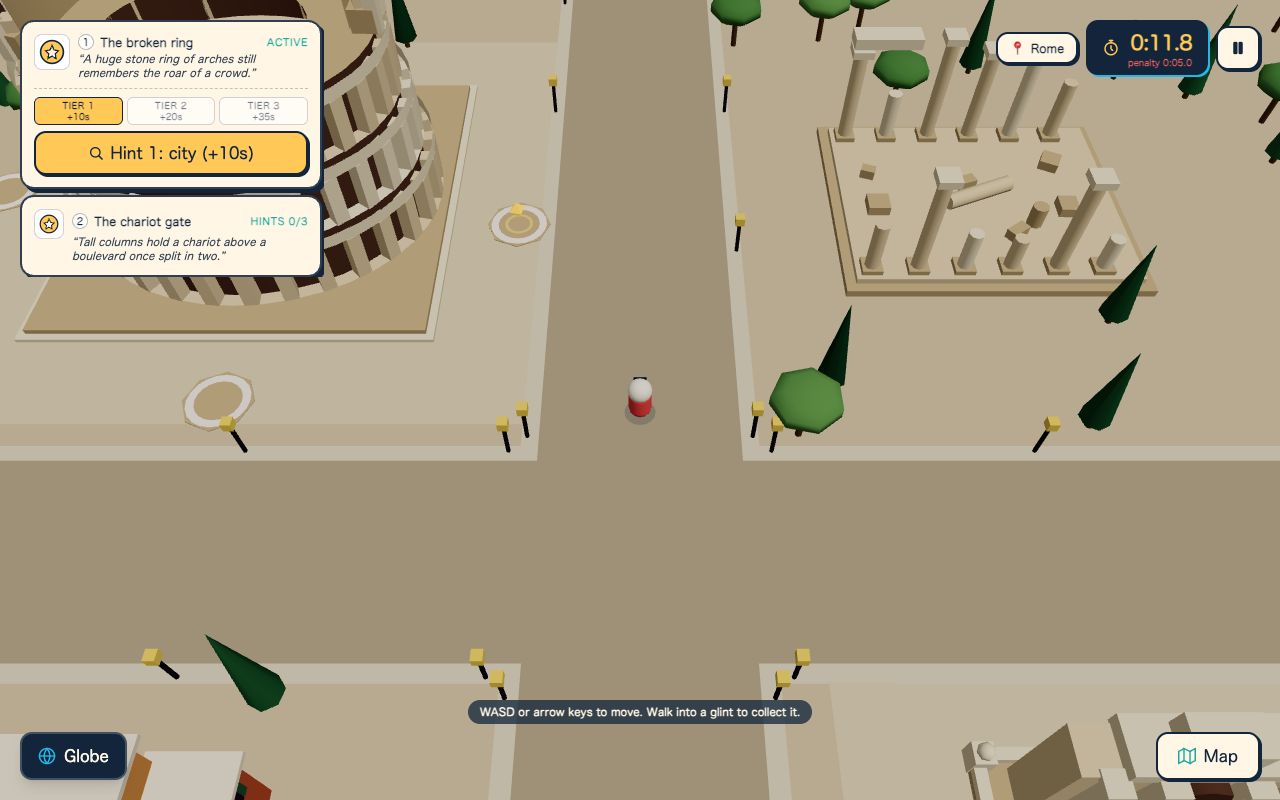
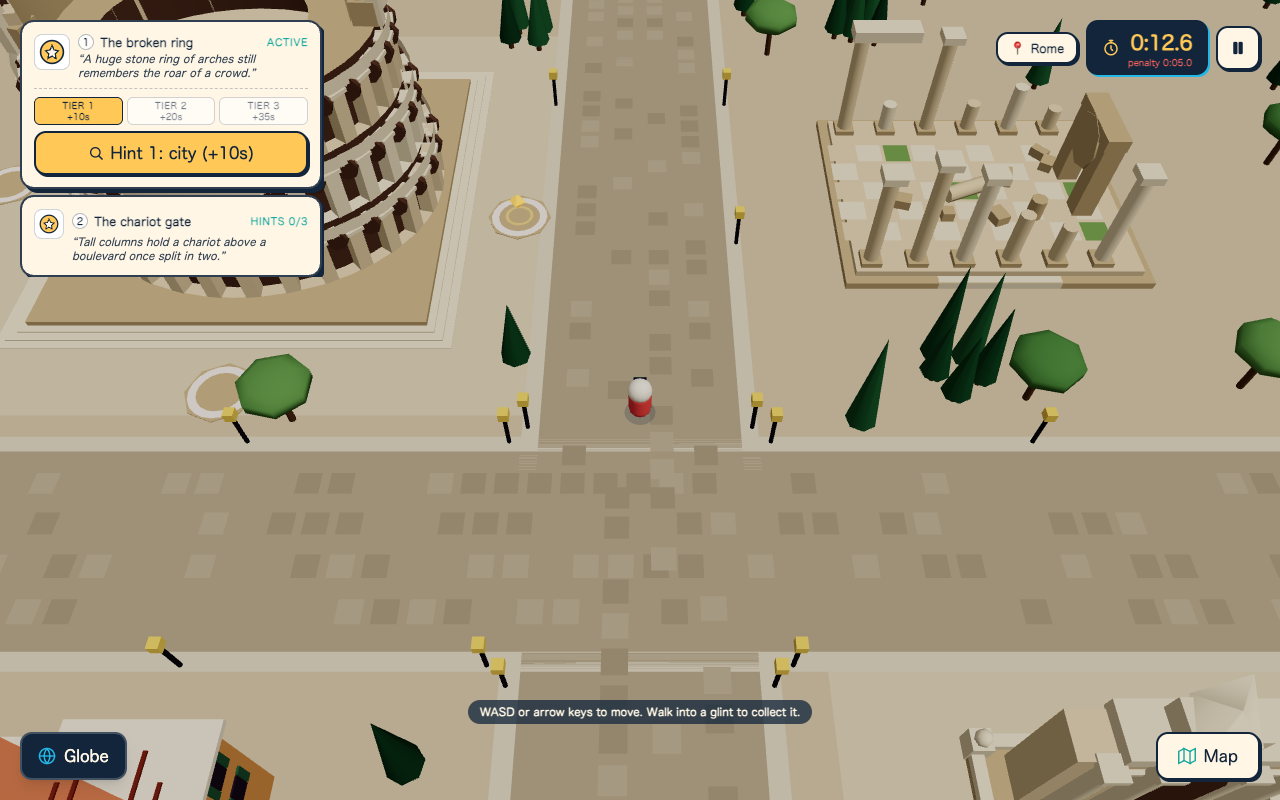
A8: Rome ground-level pass — arch heads/keystones, Trevi-style sculpture and water, forum paving + arch fragment, roof tile courses, piazza cafe tables, cypress groves, cobble slabs

diff --git a/src/cities/rome/RomeScene.tsx b/src/cities/rome/RomeScene.tsx
@@ -68,7 +68,12 @@ const ARENA_SAND = '#e6c690';
 const SOCKET_PAD_TONE = '#fff5e9';
 const SOCKET_DISC_TONE = '#cdb489';
 const PLASTER_TONES = ['#e8a35c', '#d97f4a', '#f0bd7c', '#c9683f', '#f2d19b', '#e08c5a'] as const;
-const ROOF_TONES = ['#b8512f', '#c25f38', '#a8492a', '#cf6a3e'] as const;
+const ROOF_TONES = ['#b8512f', '#c25f38', '#a8492a', '#cf6a3e', '#d9825a', '#9c4a2c'] as const;
+const ROOF_RIDGE = '#8a3a22';
+const COBBLE_DARK = '#ab9d83';
+const COBBLE_LIGHT = '#bfb095';
+const GRASS_TONE = '#7fa35a';
+const FOAM_TONE = '#dff7ff';
 const SHUTTER_TONE = '#3f6b4f';
 const WINDOW_TONE = '#3a2a3f';
 const TRIM_TONE = '#f9ecd6';
@@ -80,8 +85,6 @@ const LAMP_GLOW_TONE = '#ffd963';
 const UMBRELLA_TONES = ['#f43fab', '#ffd963', '#22c4ea'] as const;
 const TABLE_TONE = '#fff5e9';
 const WATER_TONE = '#22c4ea';
-const WATER_DEEP = '#1a9fc4';
-const BRONZE_TONE = '#5b6b4a';
 const AWNING_GREEN = '#3f8f5a';
 const AWNING_WHITE = '#fff5e9';
 
@@ -258,6 +261,25 @@ function buildHouses(houses: readonly House[], rng: Rng, quality: Quality, batch
     });
     batches.boxes.push(boxItem(eaves, height - 0.3, 0.35, TRIM_TONE));
     if (quality === 'low') continue;
+    // Pantile detail: a dark ridge cap and two tile courses running along the long axis of the roof.
+    const alongX = width(rect) >= depth(rect);
+    batches.boxes.push({ x: centerX(rect), y: height + 1.75, z: centerZ(rect), sx: alongX ? width(rect) * 0.35 : 0.5, sy: 0.25, sz: alongX ? 0.5 : depth(rect) * 0.35, color: ROOF_RIDGE });
+    for (const t of [0.35, 0.6]) {
+      const half = alongX ? depth(eaves) / 2 : width(eaves) / 2;
+      const y = height + 0.9 + (1 - t) * 0.9;
+      for (const side of [-1, 1] as const) {
+        const off = side * half * t;
+        batches.boxes.push({
+          x: alongX ? centerX(eaves) : centerX(eaves) + off,
+          y,
+          z: alongX ? centerZ(eaves) + off : centerZ(eaves),
+          sx: alongX ? width(eaves) * (1 - t * 0.6) : 0.18,
+          sy: 0.12,
+          sz: alongX ? 0.18 : depth(eaves) * (1 - t * 0.6),
+          color: ROOF_RIDGE,
+        });
+      }
+    }
 
     // Ground-floor arches on the +Z face (the chase camera looks toward -Z, so +Z faces are seen).
     const frontZ = rect.maxZ + 0.06;
@@ -325,16 +347,27 @@ function buildTrattoria(landmark: Landmark, quality: Quality, batches: Batches):
   if (quality === 'low') return;
 
   // Cafe tables under umbrellas on the terrace in front (walk-through decoration).
+  let index = 0;
   for (let x = footprint.minX + 2; x < footprint.maxX - 1; x += 4.2) {
-    const z = frontZ + 3.4;
-    const tone = UMBRELLA_TONES[Math.round((x - footprint.minX) / 4.2) % UMBRELLA_TONES.length]!;
-    batches.cylinders.push({ x, y: 0.45, z, sx: 0.16, sy: 0.9, sz: 0.16, color: LAMP_POST_TONE });
-    batches.cylinders.push({ x, y: 0.95, z, sx: 1.4, sy: 0.12, sz: 1.4, color: TABLE_TONE });
-    batches.cylinders.push({ x, y: 1.9, z, sx: 0.1, sy: 2.0, sz: 0.1, color: LAMP_POST_TONE });
-    batches.cones.push({ x, y: 3.2, z, sx: 3.2, sy: 0.9, sz: 3.2, color: tone });
-    for (const [dx, dz] of [[-0.9, 0.5], [0.9, 0.5]] as const) {
-      batches.boxes.push({ x: x + dx, y: 0.5, z: z + dz, sx: 0.5, sy: 0.9, sz: 0.5, color: TRUNK_TONE });
-    }
+    cafeTable(x, frontZ + 3.4, UMBRELLA_TONES[index % UMBRELLA_TONES.length]!, batches);
+    index += 1;
+  }
+  // Planters flanking the door.
+  for (const x of [footprint.minX + 0.6, footprint.maxX - 0.6]) {
+    batches.boxes.push({ x, y: 0.4, z: frontZ + 0.9, sx: 1.0, sy: 0.8, sz: 1.0, color: ROOF_TONES[0] });
+    batches.spheres.push({ x, y: 1.3, z: frontZ + 0.9, sx: 0.8, sy: 0.7, sz: 0.8, color: PINE_TONES[1] });
+  }
+}
+
+/** One cafe table with two chairs under a coloured umbrella; walk-through, so never placed inside a blocker. */
+function cafeTable(x: number, z: number, tone: string, batches: Batches): void {
+  batches.cylinders.push({ x, y: 0.45, z, sx: 0.16, sy: 0.9, sz: 0.16, color: LAMP_POST_TONE });
+  batches.cylinders.push({ x, y: 0.95, z, sx: 1.4, sy: 0.12, sz: 1.4, color: TABLE_TONE });
+  batches.cylinders.push({ x, y: 1.9, z, sx: 0.1, sy: 2.0, sz: 0.1, color: LAMP_POST_TONE });
+  batches.cones.push({ x, y: 3.2, z, sx: 3.2, sy: 0.9, sz: 3.2, color: tone });
+  batches.cones.push({ x, y: 3.7, z, sx: 0.4, sy: 0.3, sz: 0.4, color: TABLE_TONE });
+  for (const [dx, dz] of [[-0.9, 0.5], [0.9, 0.5]] as const) {
+    batches.boxes.push({ x: x + dx, y: 0.5, z: z + dz, sx: 0.5, sy: 0.9, sz: 0.5, color: TRUNK_TONE });
   }
 }
 
@@ -384,7 +417,19 @@ function buildColosseum(landmark: Landmark, quality: Quality, batches: Batches):
       const px = cx + Math.cos(angle) * (tx - 0.55);
       const pz = cz + Math.sin(angle) * (tz - 0.55);
       batches.boxes.push({ x: px, y: y0 + (TIER_HEIGHT - 1) / 2, z: pz, sx: 1.1, sy: TIER_HEIGHT - 1, sz: 1.1, ry: -angle, color: tier === 1 ? TRAVERTINE_LIGHT : TRAVERTINE });
+      if (quality === 'low') continue;
+      // Rounded arch head over each opening, a light keystone above it, and a pilaster capital.
+      const mid = angle + Math.PI / pillars;
+      const ax = cx + Math.cos(mid) * (tx - 0.5);
+      const az = cz + Math.sin(mid) * (tz - 0.5);
+      batches.cylinders.push({ x: ax, y: y0 + TIER_HEIGHT - 1.55, z: az, sx: 1.9, sy: 0.5, sz: 1.9, rx: Math.PI / 2, ry: -mid, color: ARCH_SHADOW });
+      batches.boxes.push({ x: ax, y: y0 + TIER_HEIGHT - 0.9, z: az, sx: 0.5, sy: 0.7, sz: 0.5, ry: -mid, color: TRAVERTINE_LIGHT });
+      batches.boxes.push({ x: px, y: y0 + TIER_HEIGHT - 1.15, z: pz, sx: 1.4, sy: 0.3, sz: 1.4, ry: -angle, color: TRAVERTINE_LIGHT });
     }
+  }
+  // Three shallow steps around the plinth so the base reads from ground level.
+  for (let step = 1; step <= 2; step += 1) {
+    batches.boxes.push(boxItem(grow(footprint, 0.6 + step * 0.7), 0, 0.3 - step * 0.12, TRAVERTINE_LIGHT));
   }
 
   // Broken attic: a partial fourth storey that survives only on one side.
@@ -481,18 +526,49 @@ function buildFountain(landmark: Landmark, quality: Quality, batches: Batches): 
   }
   batches.boxes.push({ x: cx, y: 4.2, z: wallZ + 1.4, sx: size * 0.2, sy: 5.6, sz: 0.8, color: ARCH_SHADOW });
   batches.cylinders.push({ x: cx, y: 7, z: wallZ + 1.4, sx: size * 0.2, sy: 0.8, sz: size * 0.2, rx: Math.PI / 2, color: ARCH_SHADOW });
-  // Central figure on a rocky base, riding out of the arch.
-  batches.boxes.push({ x: cx, y: 1.9, z: cz - 1, sx: 3.2, sy: 1.6, sz: 2.4, color: TRAVERTINE_DARK });
-  batches.cylinders.push({ x: cx, y: 3.6, z: cz - 1, sx: 1.2, sy: 1.8, sz: 1.2, color: BRONZE_TONE });
-  batches.spheres.push({ x: cx, y: 4.9, z: cz - 1, sx: 0.7, sy: 0.7, sz: 0.7, color: BRONZE_TONE });
-  batches.cylinders.push({ x: cx, y: 2.9, z: cz + 1.2, sx: 3.4, sy: 0.4, sz: 3.4, color: TRAVERTINE_LIGHT });
-  batches.cylinders.push({ x: cx, y: 3.1, z: cz + 1.2, sx: 2.6, sy: 0.16, sz: 2.6, color: WATER_DEEP });
-  if (quality === 'low') return;
-  // Little spouts of water as thin cyan columns.
-  for (const dx of [-2.6, 2.6]) {
-    batches.cylinders.push({ x: cx + dx, y: 2.0, z: cz + 1.5, sx: 0.3, sy: 1.6, sz: 0.3, color: WATER_TONE });
-    batches.spheres.push({ x: cx + dx, y: 2.9, z: cz + 1.5, sx: 0.45, sy: 0.35, sz: 0.45, color: WATER_TONE });
+  // Palazzo facade detail: pediment, windows either side of the niche.
+  batches.roofs.push({ x: cx, y: 12.0, z: wallZ, sx: size * 0.26, sy: 1.4, sz: 2.4, ry: Math.PI / 4, color: TRAVERTINE_LIGHT });
+  for (const dx of [-size * 0.2, size * 0.2]) {
+    batches.boxes.push({ x: cx + dx, y: 6.4, z: wallZ + 1.25, sx: 1.2, sy: 1.8, sz: 0.12, color: WINDOW_TONE });
+    batches.boxes.push({ x: cx + dx, y: 7.5, z: wallZ + 1.3, sx: 1.8, sy: 0.3, sz: 0.3, color: TRAVERTINE_LIGHT });
   }
+  // Trevi-style rocky scogli tumbling from the niche into the pool.
+  const rocks: readonly (readonly [number, number, number, number])[] = [
+    [0, 1.6, cz - 2.2, 4.4],
+    [-2.6, 1.1, cz - 1.0, 3.0],
+    [2.4, 1.2, cz - 1.4, 3.2],
+    [-1.2, 0.9, cz + 0.8, 2.4],
+    [1.6, 0.8, cz + 1.0, 2.2],
+    [-3.8, 0.7, cz + 0.4, 2.0],
+    [3.6, 0.7, cz + 0.2, 2.0],
+  ];
+  for (const [dx, h, z, w] of rocks) {
+    batches.boxes.push({ x: cx + dx, y: 1.1 + h / 2, z, sx: w, sy: h, sz: w * 0.8, ry: dx * 0.15, color: TRAVERTINE_DARK });
+  }
+  // Oceanus in the niche on a shell chariot, flanked by two tritons with sea horses.
+  batches.boxes.push({ x: cx, y: 3.9, z: cz - 2.4, sx: 1.6, sy: 2.6, sz: 1.0, color: TRAVERTINE_LIGHT });
+  batches.spheres.push({ x: cx, y: 5.6, z: cz - 2.4, sx: 0.6, sy: 0.65, sz: 0.6, color: TRAVERTINE_LIGHT });
+  batches.boxes.push({ x: cx, y: 4.9, z: cz - 2.4, sx: 2.6, sy: 0.5, sz: 0.8, color: TRAVERTINE_LIGHT });
+  batches.cylinders.push({ x: cx, y: 2.9, z: cz - 2.2, sx: 3.0, sy: 0.5, sz: 2.0, color: TRAVERTINE_LIGHT });
+  for (const side of [-1, 1] as const) {
+    const x = cx + side * 2.6;
+    batches.boxes.push({ x, y: 3.0, z: cz - 1.0, sx: 1.0, sy: 1.6, sz: 0.7, color: TRAVERTINE_LIGHT });
+    batches.spheres.push({ x, y: 4.0, z: cz - 1.0, sx: 0.4, sy: 0.45, sz: 0.4, color: TRAVERTINE_LIGHT });
+    batches.boxes.push({ x: x + side * 1.2, y: 2.6, z: cz + 0.2, sx: 1.6, sy: 0.9, sz: 0.9, ry: side * 0.5, color: TRAVERTINE_LIGHT });
+    batches.cylinders.push({ x: x + side * 1.9, y: 3.3, z: cz + 0.6, sx: 0.5, sy: 1.0, sz: 0.5, rx: -0.5, color: TRAVERTINE_LIGHT });
+  }
+  if (quality === 'low') return;
+  // Water: sheets sliding down the rocks, spray, and foam rings where they hit the pool.
+  for (const [dx, z, w] of [[-1.6, cz - 0.4, 2.2], [1.4, cz - 0.6, 2.0], [0, cz + 0.6, 2.8]] as const) {
+    batches.boxes.push({ x: cx + dx, y: 1.9, z, sx: w, sy: 0.12, sz: 2.4, rx: -0.9, color: WATER_TONE });
+    batches.cylinders.push({ x: cx + dx, y: 1.28, z: z + 1.6, sx: w + 0.8, sy: 0.06, sz: (w + 0.8) * 0.6, color: FOAM_TONE });
+  }
+  for (const side of [-1, 1] as const) {
+    const x = cx + side * 4.5;
+    batches.cylinders.push({ x, y: 2.0, z: cz + 0.6, sx: 0.3, sy: 1.6, sz: 0.3, color: WATER_TONE });
+    batches.spheres.push({ x, y: 2.9, z: cz + 0.6, sx: 0.45, sy: 0.35, sz: 0.45, color: FOAM_TONE });
+  }
+  batches.spheres.push({ x: cx, y: 3.4, z: cz - 2.0, sx: 0.9, sy: 0.5, sz: 0.9, color: FOAM_TONE });
 }
 
 function buildForumRuin(blocker: Blocker, rng: Rng, quality: Quality, batches: Batches): void {
@@ -515,6 +591,26 @@ function buildForumRuin(blocker: Blocker, rng: Rng, quality: Quality, batches: B
   batches.cylinders.push({ x: centerX(blocker), y: 1.7, z: centerZ(blocker), sx: 1.3, sy: 6, sz: 1.3, rz: Math.PI / 2, ry: 0.4, color: TRAVERTINE });
   batches.cylinders.push({ x: centerX(blocker) + 4, y: 1.7, z: centerZ(blocker) + 3, sx: 1.3, sy: 2.4, sz: 1.3, color: TRAVERTINE_DARK });
   if (quality === 'low') return;
+  // Checkered paving slabs on the podium, a grassy patch where slabs are missing, and steps on the +Z side.
+  for (let x = blocker.minX + 1.4; x < blocker.maxX - 1.2; x += 2.4) {
+    for (let z = blocker.minZ + 5.2; z < blocker.maxZ - 5.0; z += 2.4) {
+      const parity = (Math.round((x - blocker.minX) / 2.4) + Math.round((z - blocker.minZ) / 2.4)) % 2;
+      if (rng.next() < 0.12) {
+        batches.flats.push({ x, y: 1.115, z, sx: 2.1, sy: 2.1, sz: 1, rx: FLAT, color: GRASS_TONE });
+        continue;
+      }
+      batches.flats.push({ x, y: 1.115, z, sx: 2.1, sy: 2.1, sz: 1, rx: FLAT, color: parity === 0 ? TRAVERTINE_LIGHT : TRAVERTINE });
+    }
+  }
+  batches.boxes.push({ x: centerX(blocker), y: 0.3, z: blocker.maxZ - 0.4, sx: width(blocker) * 0.4, sy: 0.6, sz: 0.8, color: TRAVERTINE_LIGHT });
+  // A surviving arch fragment at the east end.
+  const archX = blocker.maxX - 4;
+  const archZ = centerZ(blocker);
+  for (const dz of [-2.2, 2.2]) {
+    batches.boxes.push({ x: archX, y: 1.1 + 3.2, z: archZ + dz, sx: 1.6, sy: 6.4, sz: 1.6, color: TRAVERTINE_DARK });
+  }
+  batches.boxes.push({ x: archX, y: 1.1 + 6.9, z: archZ, sx: 1.8, sy: 1.0, sz: 6.0, color: TRAVERTINE_DARK });
+  batches.cylinders.push({ x: archX, y: 1.1 + 5.2, z: archZ, sx: 4.4, sy: 1.9, sz: 4.4, rz: Math.PI / 2, color: TRAVERTINE_DARK });
   for (let i = 0; i < 6; i += 1) {
     batches.boxes.push({
       x: blocker.minX + 3 + rng.next() * (width(blocker) - 6),
@@ -574,6 +670,21 @@ function isClearForProps(definition: CityDefinition, x: number, z: number, keepO
   return Math.hypot(definition.spawn[0] - x, definition.spawn[2] - z) >= SOCKET_CLEAR_RADIUS;
 }
 
+/** Like isClearForProps but allows piazza edges: only the blocker rectangles, roads, sockets and spawn are excluded. */
+function isPropSafe(definition: CityDefinition, x: number, z: number): boolean {
+  if (!contains(grow(definition.bounds, -2), x, z)) return false;
+  for (const blocker of definition.blockers) {
+    if (contains(grow(blocker, 2.0), x, z)) return false;
+  }
+  for (const road of definition.roads) {
+    if (contains(grow(road, 1.0), x, z)) return false;
+  }
+  for (const socket of definition.sockets) {
+    if (Math.hypot(socket.position[0] - x, socket.position[2] - z) < SOCKET_CLEAR_RADIUS) return false;
+  }
+  return Math.hypot(definition.spawn[0] - x, definition.spawn[2] - z) >= SOCKET_CLEAR_RADIUS;
+}
+
 function buildProps(definition: CityDefinition, rng: Rng, quality: Quality, batches: Batches): void {
   const placed: [number, number][] = [];
   const target = quality === 'low' ? 20 : 56;
@@ -584,7 +695,19 @@ function buildProps(definition: CityDefinition, rng: Rng, quality: Quality, batc
     if (!isClearForProps(definition, x, z, true)) continue;
     if (placed.some(([px, pz]) => Math.hypot(px - x, pz - z) < 4.5)) continue;
     placed.push([x, z]);
-    if (rng.next() < 0.55) {
+    const roll = rng.next();
+    if (roll < 0.3 && quality !== 'low') {
+      // Cypress grove: a tight cluster of three to five spires of varying height.
+      const count = 3 + rng.int(3);
+      for (let i = 0; i < count; i += 1) {
+        const angle = (i / count) * Math.PI * 2 + rng.next();
+        const radius = 1.2 + rng.next() * 1.2;
+        const gx = x + Math.cos(angle) * radius;
+        const gz = z + Math.sin(angle) * radius;
+        if (!isClearForProps(definition, gx, gz, true)) continue;
+        cypress(gx, gz, 5 + rng.next() * 4, rng.pick(CYPRESS_TONES), batches);
+      }
+    } else if (roll < 0.6) {
       cypress(x, z, 6 + rng.next() * 3, rng.pick(CYPRESS_TONES), batches);
     } else {
       // Stone pine: tall bare trunk with a flat umbrella crown.
@@ -594,6 +717,28 @@ function buildProps(definition: CityDefinition, rng: Rng, quality: Quality, batc
     }
   }
   if (quality === 'low') return;
+  // Cafe tables on the fountain piazza and along house fronts; outside every blocker, clear of sockets.
+  let tables = 0;
+  for (const landmark of definition.landmarks) {
+    if (landmark.silhouette !== 'fountain') continue;
+    const ring = grow(landmark.footprint, 4);
+    for (let x = ring.minX + 1; x <= ring.maxX - 1; x += 4.5) {
+      for (const z of [ring.minZ, ring.maxZ]) {
+        if (!isPropSafe(definition, x, z)) continue;
+        cafeTable(x, z, UMBRELLA_TONES[tables % UMBRELLA_TONES.length]!, batches);
+        tables += 1;
+      }
+    }
+  }
+  for (const blocker of definition.blockers) {
+    if (!blocker.id.startsWith('insula')) continue;
+    const z = blocker.maxZ + 3.2;
+    for (let x = blocker.minX + 3; x <= blocker.maxX - 3; x += 7.5) {
+      if (rng.next() < 0.4 || !isPropSafe(definition, x, z)) continue;
+      cafeTable(x, z, UMBRELLA_TONES[tables % UMBRELLA_TONES.length]!, batches);
+      tables += 1;
+    }
+  }
   for (const road of definition.roads) {
     const horizontal = width(road) >= depth(road);
     const length = horizontal ? width(road) : depth(road);
@@ -628,6 +773,22 @@ export function RomeScene({ definition, seed, quality }: CitySceneProps) {
       }
     }
     for (const road of roads) batches.flats.push(flatItem(road, 0.02, COBBLE_TONE));
+    if (quality !== 'low') {
+      // Sparse cobble slabs in two tones, staggered along each lane, plus a pale centre line of kerbstones.
+      for (const road of roads) {
+        const horizontal = width(road) >= depth(road);
+        const length = horizontal ? width(road) : depth(road);
+        for (let along = 1.5; along < length - 1.5; along += 2.2) {
+          for (const lane of [-4.5, -1.5, 1.5, 4.5]) {
+            if (rng.next() < 0.5) continue;
+            const stagger = Math.abs(lane) < 2 ? 1.1 : 0;
+            const x = horizontal ? road.minX + along + stagger : centerX(road) + lane;
+            const z = horizontal ? centerZ(road) + lane : road.minZ + along + stagger;
+            batches.flats.push({ x, y: 0.024, z, sx: 1.6, sy: 1.6, sz: 1, rx: FLAT, color: rng.next() < 0.5 ? COBBLE_DARK : COBBLE_LIGHT });
+          }
+        }
+      }
+    }
 
     const houses: House[] = [];
     for (const blocker of blockers) {
